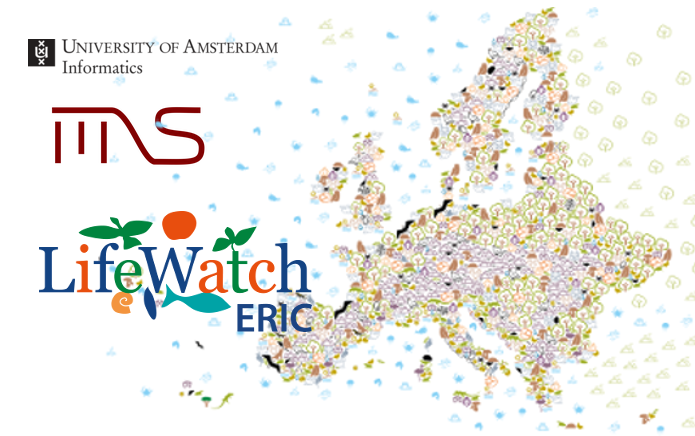
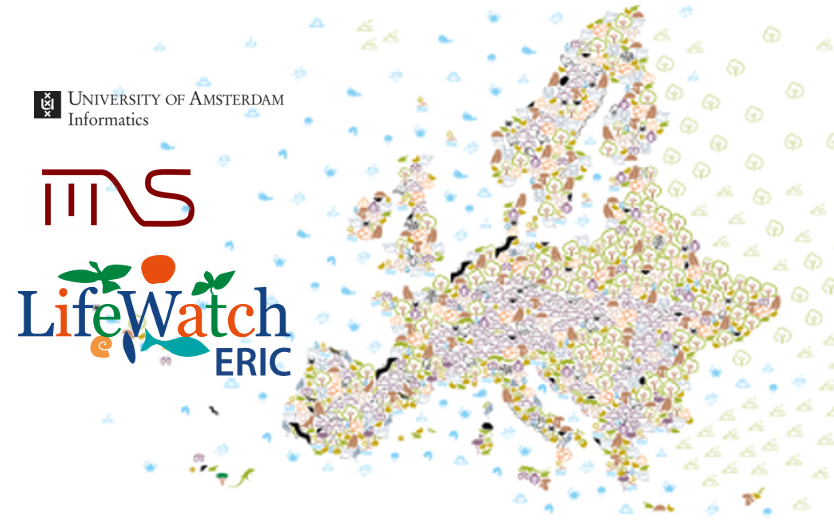
backround

diff --git a/templates/spawn.html b/templates/spawn.html
@@ -12,7 +12,7 @@
     flex-direction:column;
     overflow: auto;
     box-sizing: border-box;
-    background: rgba(251,251,251,1) url(https://raw.githubusercontent.com/QCDIS/k8s-jhub/lifeWatch/static/images/spawn_back.png) no-repeat left bottom;">
+    background: rgba(251,251,251,1) url(../static/images/spawn_back.png) no-repeat left bottom;">
         <div style="display: table;
         vertical-align: middle;
         background: linear-gradient(180deg, rgb(255 255 255) 0%, rgb(251 251 251) 100%);
